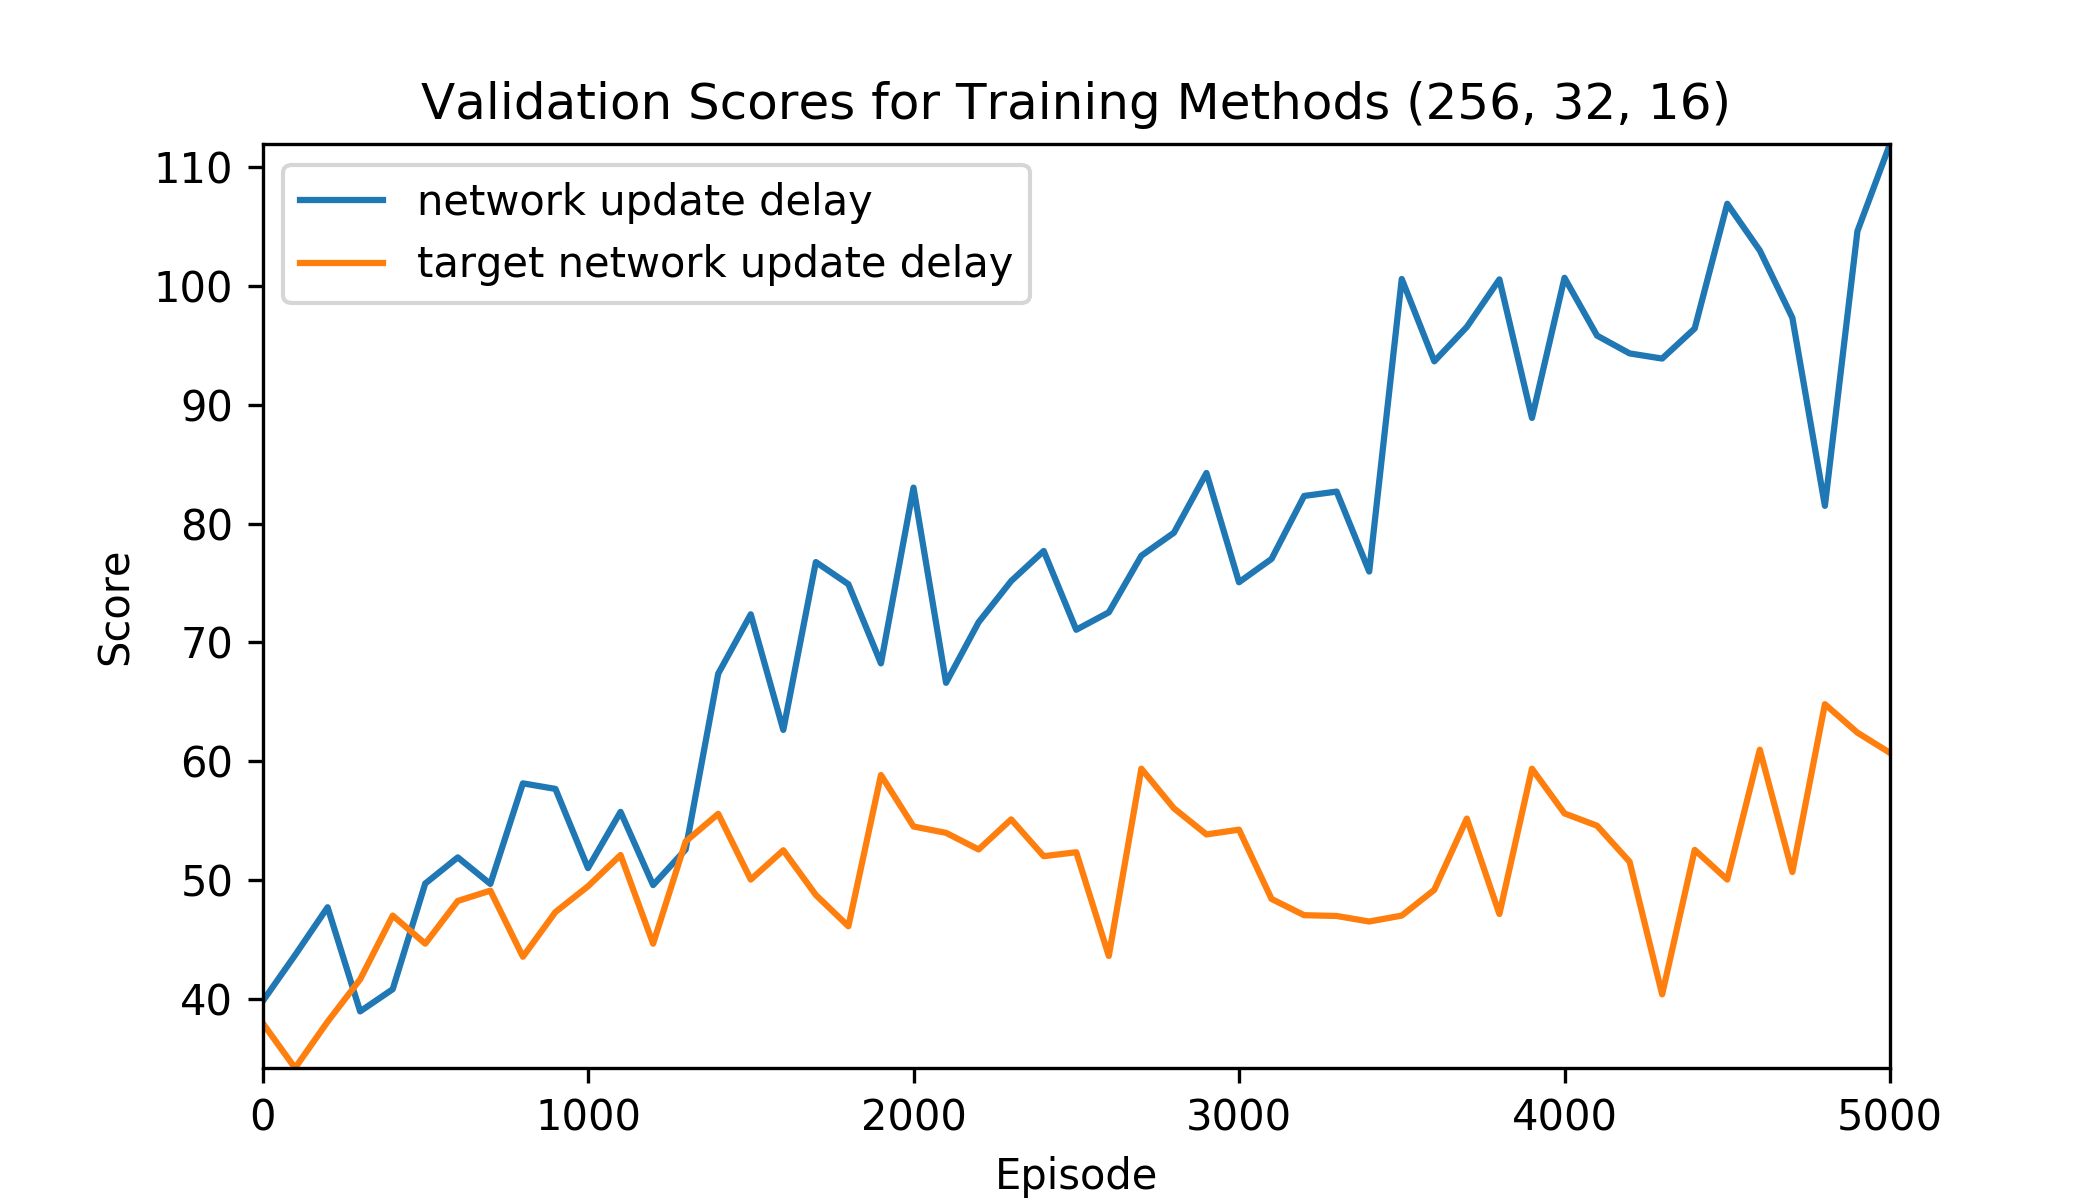
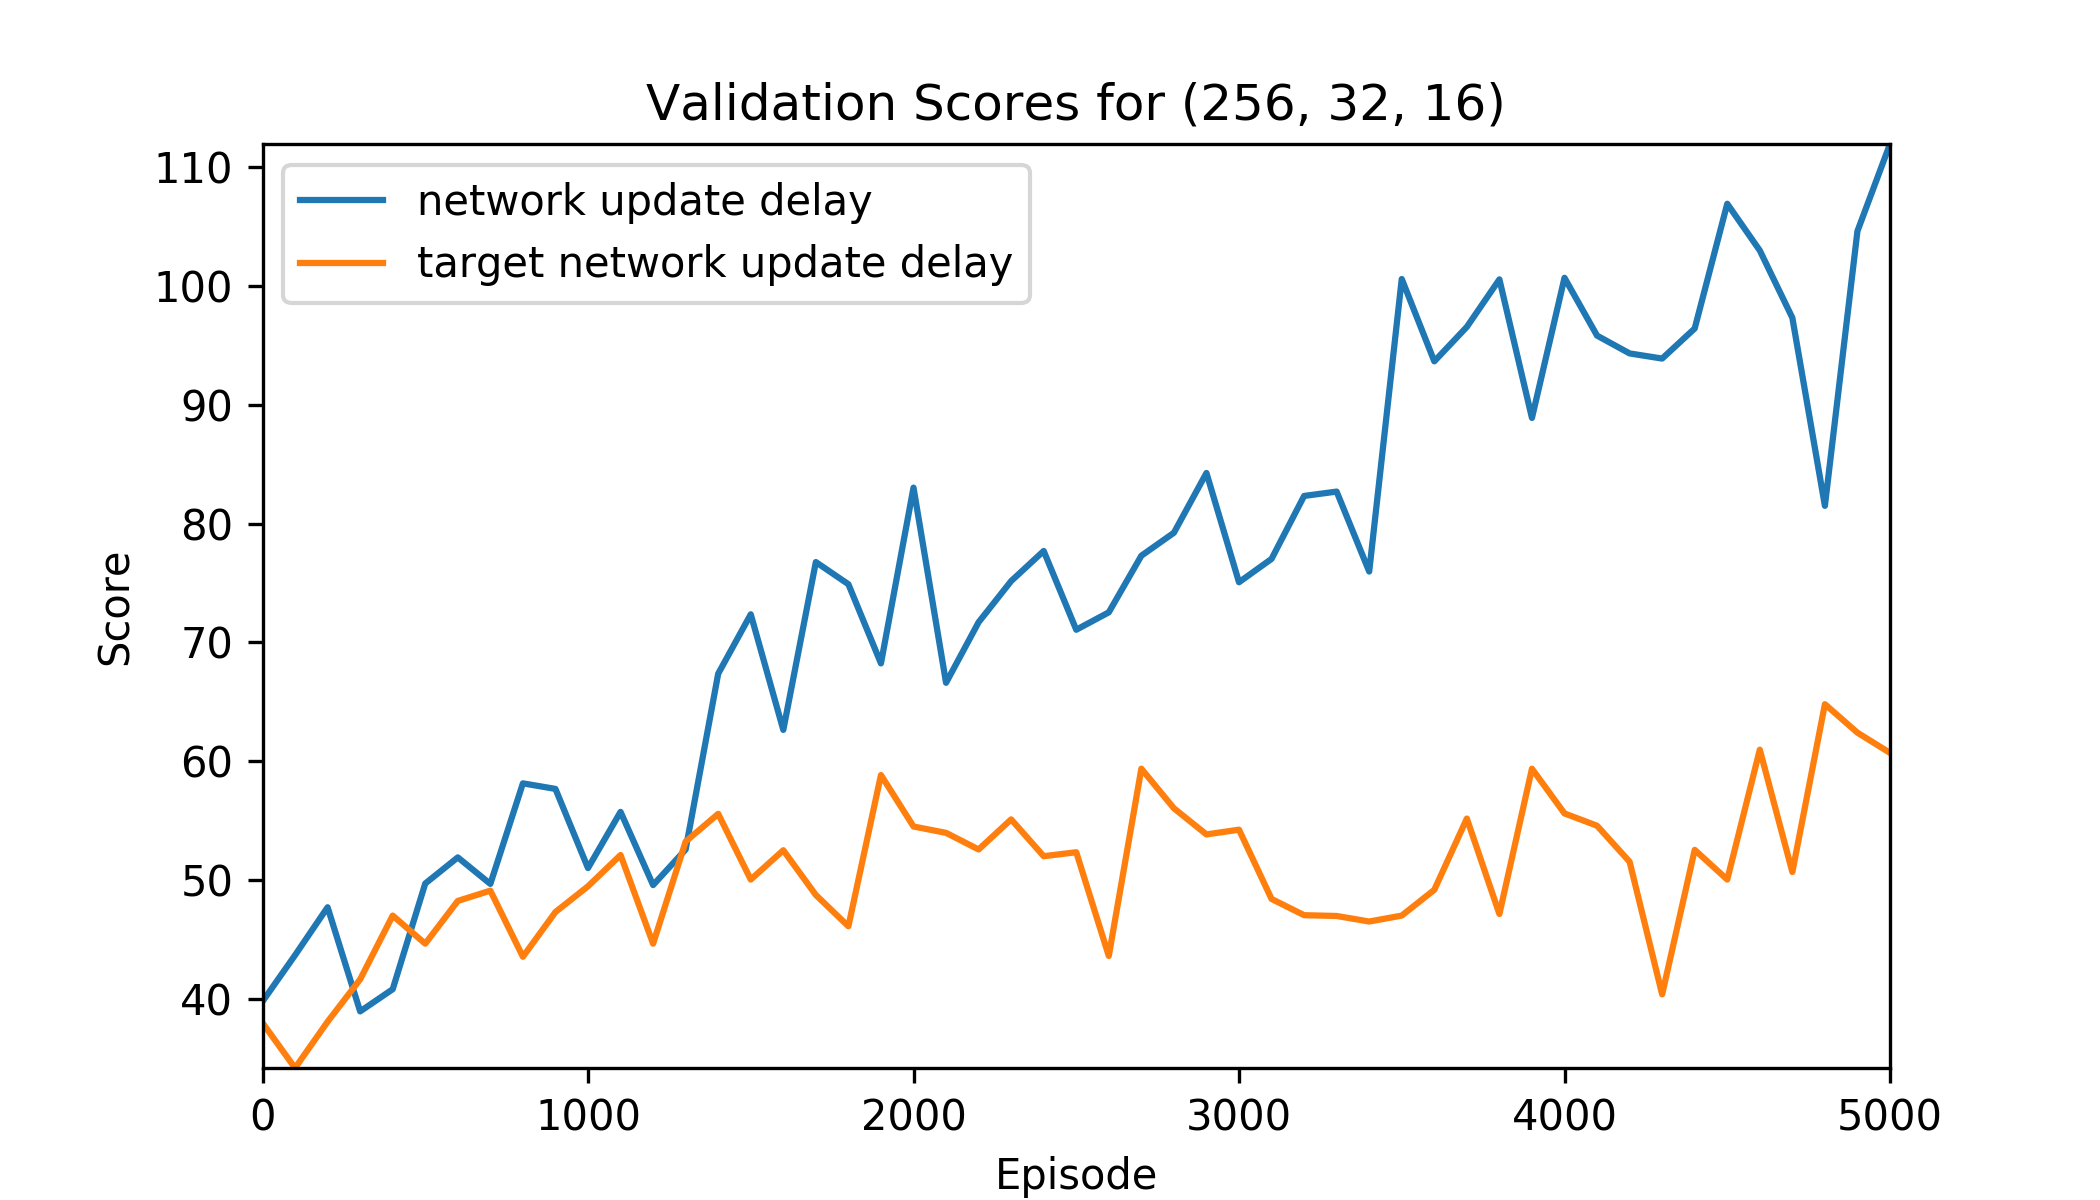
Add last results and plotting programs

Changed region(s): [[0.1857, 0.0617, 0.8357, 0.1233]]

diff --git a/python/variance_plots.py b/python/variance_plots.py
@@ -1,7 +1,11 @@
 import numpy as np, glob, os
 from matplotlib import pyplot as plt
 
-plot_type = "action"
+plot_type = "Nadam_check"
+# plot_type = "networks"
+# plot_type = "network_update"
+# plot_type = "replay_sample"
+# plot_type = "action"
 try:
     os.mkdir("{}/plots".format(plot_type))
 except FileExistsError:
@@ -22,21 +26,22 @@ def plot_save_multi(Y, title, item, x_axis='Score',
     action_count = 0
     architectures = []
     for architecture in Y:
-        architectures.append(architecture)
-        for i in range(len(Y[architecture])-1):
-            architectures.append("")
+        if architecture in ["(1024, 512, 128, 128, 128, 64)", "(512, 512, 128, 128, 64, 8)"]:
+            architectures.append(architecture)
+            for i in range(len(Y[architecture])-1):
+                architectures.append("")
 
-        for action in Y[architecture]:
-            x = np.array(Y[architecture][action][item])
-            y = [action_count] * x.size
-            plt.plot(x, y, color=colors[action_count % len(colors)], marker="o")
+            for action in Y[architecture]:
+                x = np.array(Y[architecture][action][item])
+                y = [action_count] * x.size
+                plt.plot(x, y, color=colors[action_count % len(Y[architecture])], marker="o")
 
-            if x_start_tune:
-                x_start = np.min([x.min(), x_start])
-            if x_end_tune:
-                x_end = np.max([x.max(), x_end])
+                if x_start_tune:
+                    x_start = np.min([x.min(), x_start])
+                if x_end_tune:
+                    x_end = np.max([x.max(), x_end])
 
-            action_count += 1
+                action_count += 1
 
     plt.title(title)
     plt.xlabel(x_axis)
@@ -74,7 +79,7 @@ def plot_save(Y, title, item, x_axis='Score',
 
             action_count += 1
 
-        plt.title(title + " for {}".format(architecture))
+        plt.title(title + "\nfor {}".format(architecture))
         plt.xlabel(x_axis)
         plt.yticks([], [])
 
@@ -82,6 +87,7 @@ def plot_save(Y, title, item, x_axis='Score',
         plt.legend()
         plt.savefig("{}_{}".format(name, architecture), dpi=300)
 
+# files = glob.glob("./{}/*_check_log.txt".format(plot_type))
 files = glob.glob("./{}/*.txt".format(plot_type))
 # files = glob.glob("./{}/*.log".format(plot_type))
 
@@ -91,7 +97,13 @@ for filename in files:
         data = log_file.readlines()
 
     for d in data:
-        architecture, _, action_type, score, time = d.strip().split("_")
+        # items = d.strip().split("_")
+        # architecture = items[0]
+        # action_type = " ".join(items[2:-2])
+        # score = items[-2]
+        # time = items[-1]
+        architecture, action_type, score, time = d.strip().split("_")
+        # architecture, _, action_type, score, time = d.strip().split("_")
         if architecture in Y:
             if action_type in Y[architecture]:
                 Y[architecture][action_type]["score"].append(float(score))
@@ -106,7 +118,7 @@ for filename in files:
             Y[architecture][action_type]["score"] = [float(score)]
             Y[architecture][action_type]["time"] = [float(time)]
 
-plot_save(Y, "Score Variation per Action set", item="score", name="./{}/plots/score".format(plot_type))
-plot_save(Y, "Time Variation per Action set", item="time", x_axis='Time [s]', name="./{}/plots/time".format(plot_type))
-plot_save_multi(Y, "Score Variation", item="score", name="./{}/plots/score_all".format(plot_type))
-plot_save_multi(Y, "Time Variation", item="time", x_axis='Time [s]', name="./{}/plots/time_all".format(plot_type))
+plot_save(Y, "Score Variation per Learning Rate", item="score", name="./{}/plots/score".format(plot_type))
+plot_save(Y, "Time Variation per Learning Rate", item="time", x_axis='Time [s]', name="./{}/plots/time".format(plot_type))
+plot_save_multi(Y, "Score Variation for Multiple Networks", item="score", name="./{}/plots/score_all".format(plot_type))
+plot_save_multi(Y, "Time Variation for Multiple Networks", item="time", x_axis='Time [s]', name="./{}/plots/time_all".format(plot_type))

diff --git a/python/plot_results.py b/python/plot_results.py
@@ -1,7 +1,12 @@
 import numpy as np, glob, os
 from matplotlib import pyplot as plt
 
-plot_type = "validation_large_sample"
+plot_type = "validation_simple_reward"
+# plot_type = "network_update_long"
+# plot_type = "validate_large_net"
+# plot_type = "validate_150"
+# plot_type = "validation_long_term"
+# plot_type = "replay_sample"
 try:
     os.mkdir("{}/plots".format(plot_type))
 except FileExistsError:
@@ -48,7 +53,7 @@ def plot_save_multi(Y, title, random=None, approx_optimal=None, x_axis='Episode'
         y_end_tune = True
         y_end = np.finfo(float).min
 
-    plt.figure()
+    plt.figure(figsize=(7, 4))
 
     for architecture in Y:
         y = Y[architecture]["data"]
@@ -83,7 +88,9 @@ def plot_save_multi(Y, title, random=None, approx_optimal=None, x_axis='Episode'
     plt.xlabel(x_axis)
     plt.ylabel(y_axis)
     plt.axis([x_start, x_end, y_start, y_end])
-    plt.legend()
+    # plt.subplots_adjust(right=.7)
+    # plt.legend(bbox_to_anchor=(1.45, 1), loc=2)
+    plt.legend(loc=2)
     plt.savefig(name, dpi=300)
 
 # def plot_show(x, y, title, x_axis='Episode', y_axis='Score', x_start=None, x_end=None, y_start=None, y_end=None):
@@ -115,6 +122,10 @@ for filename in files:
     architecture, _ = filename.split("/")[-1].split(".")[0].split("_")
 
     y = np.array(data[:-1].split(","), dtype=float)
+
+    # for _ in range(15):
+    #     y = np.concatenate([[y[0]], (y[:-1] + y[1:])/2, [y[-1]]])
+
     x = np.linspace(0, 5000, num=y.size)
 
     if architecture in Y:
@@ -136,7 +147,7 @@ with open("{}/random.txt".format(plot_type)) as _file:
 with open("{}/approx_optimal.txt".format(plot_type)) as _file:
     approx_optimal = float(_file.read().strip())
 
-plot_save_multi(Y, "Validation Scores for Multiple Architectures", random, approx_optimal, name="./{}/plots/multi".format(plot_type))
+plot_save_multi(Y, "Validation Score for the Simple Reward System", random, approx_optimal, name="./{}/plots/multi".format(plot_type))
 
 # plot_save(x, y, "Validation Score versus Episodes for Network 1")
 # plot_show(x, y, "Validation Score versus Episodes for Network 1")

diff --git a/python/plot_replay_sample_curves.py b/python/plot_replay_sample_curves.py
@@ -2,6 +2,7 @@ import numpy as np, glob, os
 from matplotlib import pyplot as plt
 
 # plot_type = "replay_sample"
+# plot_type = "network_update_long"
 plot_type = "network_update"
 try:
     os.mkdir("{}/plots".format(plot_type))
@@ -102,7 +103,7 @@ for filename in files:
     # architecture, replay, _ = filename.split("/")[-1].split(".")[0].split("_")
 
     y = np.array(data.strip()[:-1].split(","), dtype=float)
-    x = np.linspace(0, 5000, num=y.size)
+    x = np.linspace(0, 35000, num=y.size)
 
     if architecture in Y:
         if replay not in Y[architecture]:
@@ -123,6 +124,12 @@ for filename in files:
 for architecture in Y:
     for replay in Y[architecture]:
         Y[architecture][replay]["data"] = Y[architecture][replay]["data"] / Y[architecture][replay]["count"]
+        y = Y[architecture][replay]["data"]
+        # for _ in range(15):
+        #     y = np.concatenate([[y[0]], (y[:-1] + y[1:])/2, [y[-1]]])
+
+        Y[architecture][replay]["x"] = np.linspace(0, 5000, num=y.size)
+        Y[architecture][replay]["data"] = y
     # plot_save(Y[architecture]["x"], Y[architecture]["data"], architecture, name="./{}/plots/{}".format(plot_type, architecture))
 
 # with open("{}/random.txt".format(plot_type)) as _file:
@@ -133,7 +140,7 @@ for architecture in Y:
 
 # plot_save_multi(Y, "Validation Scores for Multiple Architectures", random, approx_optimal, name="./{}/plots/multi".format(plot_type))
 for architecture in Y:
-    plot_save_multi(Y[architecture], "Validation Scores for Training Methods {}".format(architecture), name="./{}/plots/{}".format(plot_type, architecture))
+    plot_save_multi(Y[architecture], "Validation Scores for {}".format(architecture), name="./{}/plots/{}".format(plot_type, architecture))
 
 # plot_save(x, y, "Validation Score versus Episodes for Network 1")
 # plot_show(x, y, "Validation Score versus Episodes for Network 1")

diff --git a/python/hyperparam_check.py b/python/hyperparam_check.py
@@ -4,22 +4,29 @@ import numpy as np, time, sys, pickle, os
 repetitions = 3
 optimizer = sys.argv[1]
 arch_index = int(sys.argv[2])
-save_file_name = "{}_hyperparam_check_log.txt".format(optimizer)
+folder = "{}_check/".format(optimizer)
+save_file_name = "{}log.txt".format(folder)
+
+try:
+    os.mkdir(folder)
+except FileExistsError:
+    pass
 
 def save_file(architecture, learning_rate, score, time_diff):
 	with open(save_file_name, "a") as f:
 		f.write("{}_{}_{}_{}\n".format(architecture, learning_rate, score, time_diff))
 
-def train_and_test_agent(architecture, learning_rate):
+def train_and_test_agent(architecture, learning_rate, index):
 	i = Interface(
 		optimizer=optimizer,
 		learning_rate=learning_rate,
 		hidden_layers=architecture,
-		max_humans=3, max_zombies=3
+		max_humans=3, max_zombies=3,
+		randomness=True
 	)
 	start = time.time()
-	i.train_agent(save_file="{}.h5".format(optimizer), config=[
-		"experienced_replay", "experimental_network_update_delay", "frame_skip"
+	i.train_agent(save_file="{}{}_{}_{}.h5".format(folder, architecture, learning_rate, index), config=[
+		"experienced_replay", "network_update_delay", "frame_skip", "log"
 	])
 	time_diff = time.time() - start
 	score = i.test_agent()
@@ -69,8 +76,8 @@ top_arch_data = arch_data[:3]
 for entry in top_arch_data:
     architecture = entry["arch"]
     lr = entry["lr"]
-    for _ in range(repetitions):
+    for i in range(repetitions):
         score, time_diff = train_and_test_agent(
-    		architecture=architecture, learning_rate=lr
+    		architecture=architecture, learning_rate=lr, index=i
     	)
         save_file(architecture, lr, score, time_diff)

diff --git a/python/plot_state_dims.py b/python/plot_state_dims.py
@@ -119,7 +119,7 @@ with open("{}/approx_optimal.txt".format(plot_type)) as _file:
     approx_optimal = float(_file.read().strip())
 
 for architecture in Y:
-    plot_save_multi(Y[architecture], "Validation Scores for Multiple State Encoding Dimensions", random, approx_optimal, name="./{}/plots/{}".format(plot_type, architecture))
+    plot_save_multi(Y[architecture], "Validation Scores for Multiple State Encoding Dimensions\n for {}".format(architecture), random, approx_optimal, name="./{}/plots/{}".format(plot_type, architecture))
 
 # plot_save(x, y, "Validation Score versus Episodes for Network 1")
 # plot_show(x, y, "Validation Score versus Episodes for Network 1")

diff --git a/python/bars_plot.py b/python/bars_plot.py
@@ -1,8 +1,8 @@
 import numpy as np, glob, os
 from matplotlib import pyplot as plt
 
-# plot_type = "networks"
-plot_type = "validation_large_sample"
+plot_type = "networks"
+# plot_type = "validation_large_sample_1"
 try:
     os.mkdir("{}/plots".format(plot_type))
 except FileExistsError:
@@ -41,6 +41,9 @@ files = glob.glob("./{}/*.txt".format(plot_type))
 
 Y = {}
 for filename in files:
+    if "random" in filename or "optimal" in filename:
+        continue
+
     with open(filename, "r") as log_file:
         data = log_file.readlines()
 
